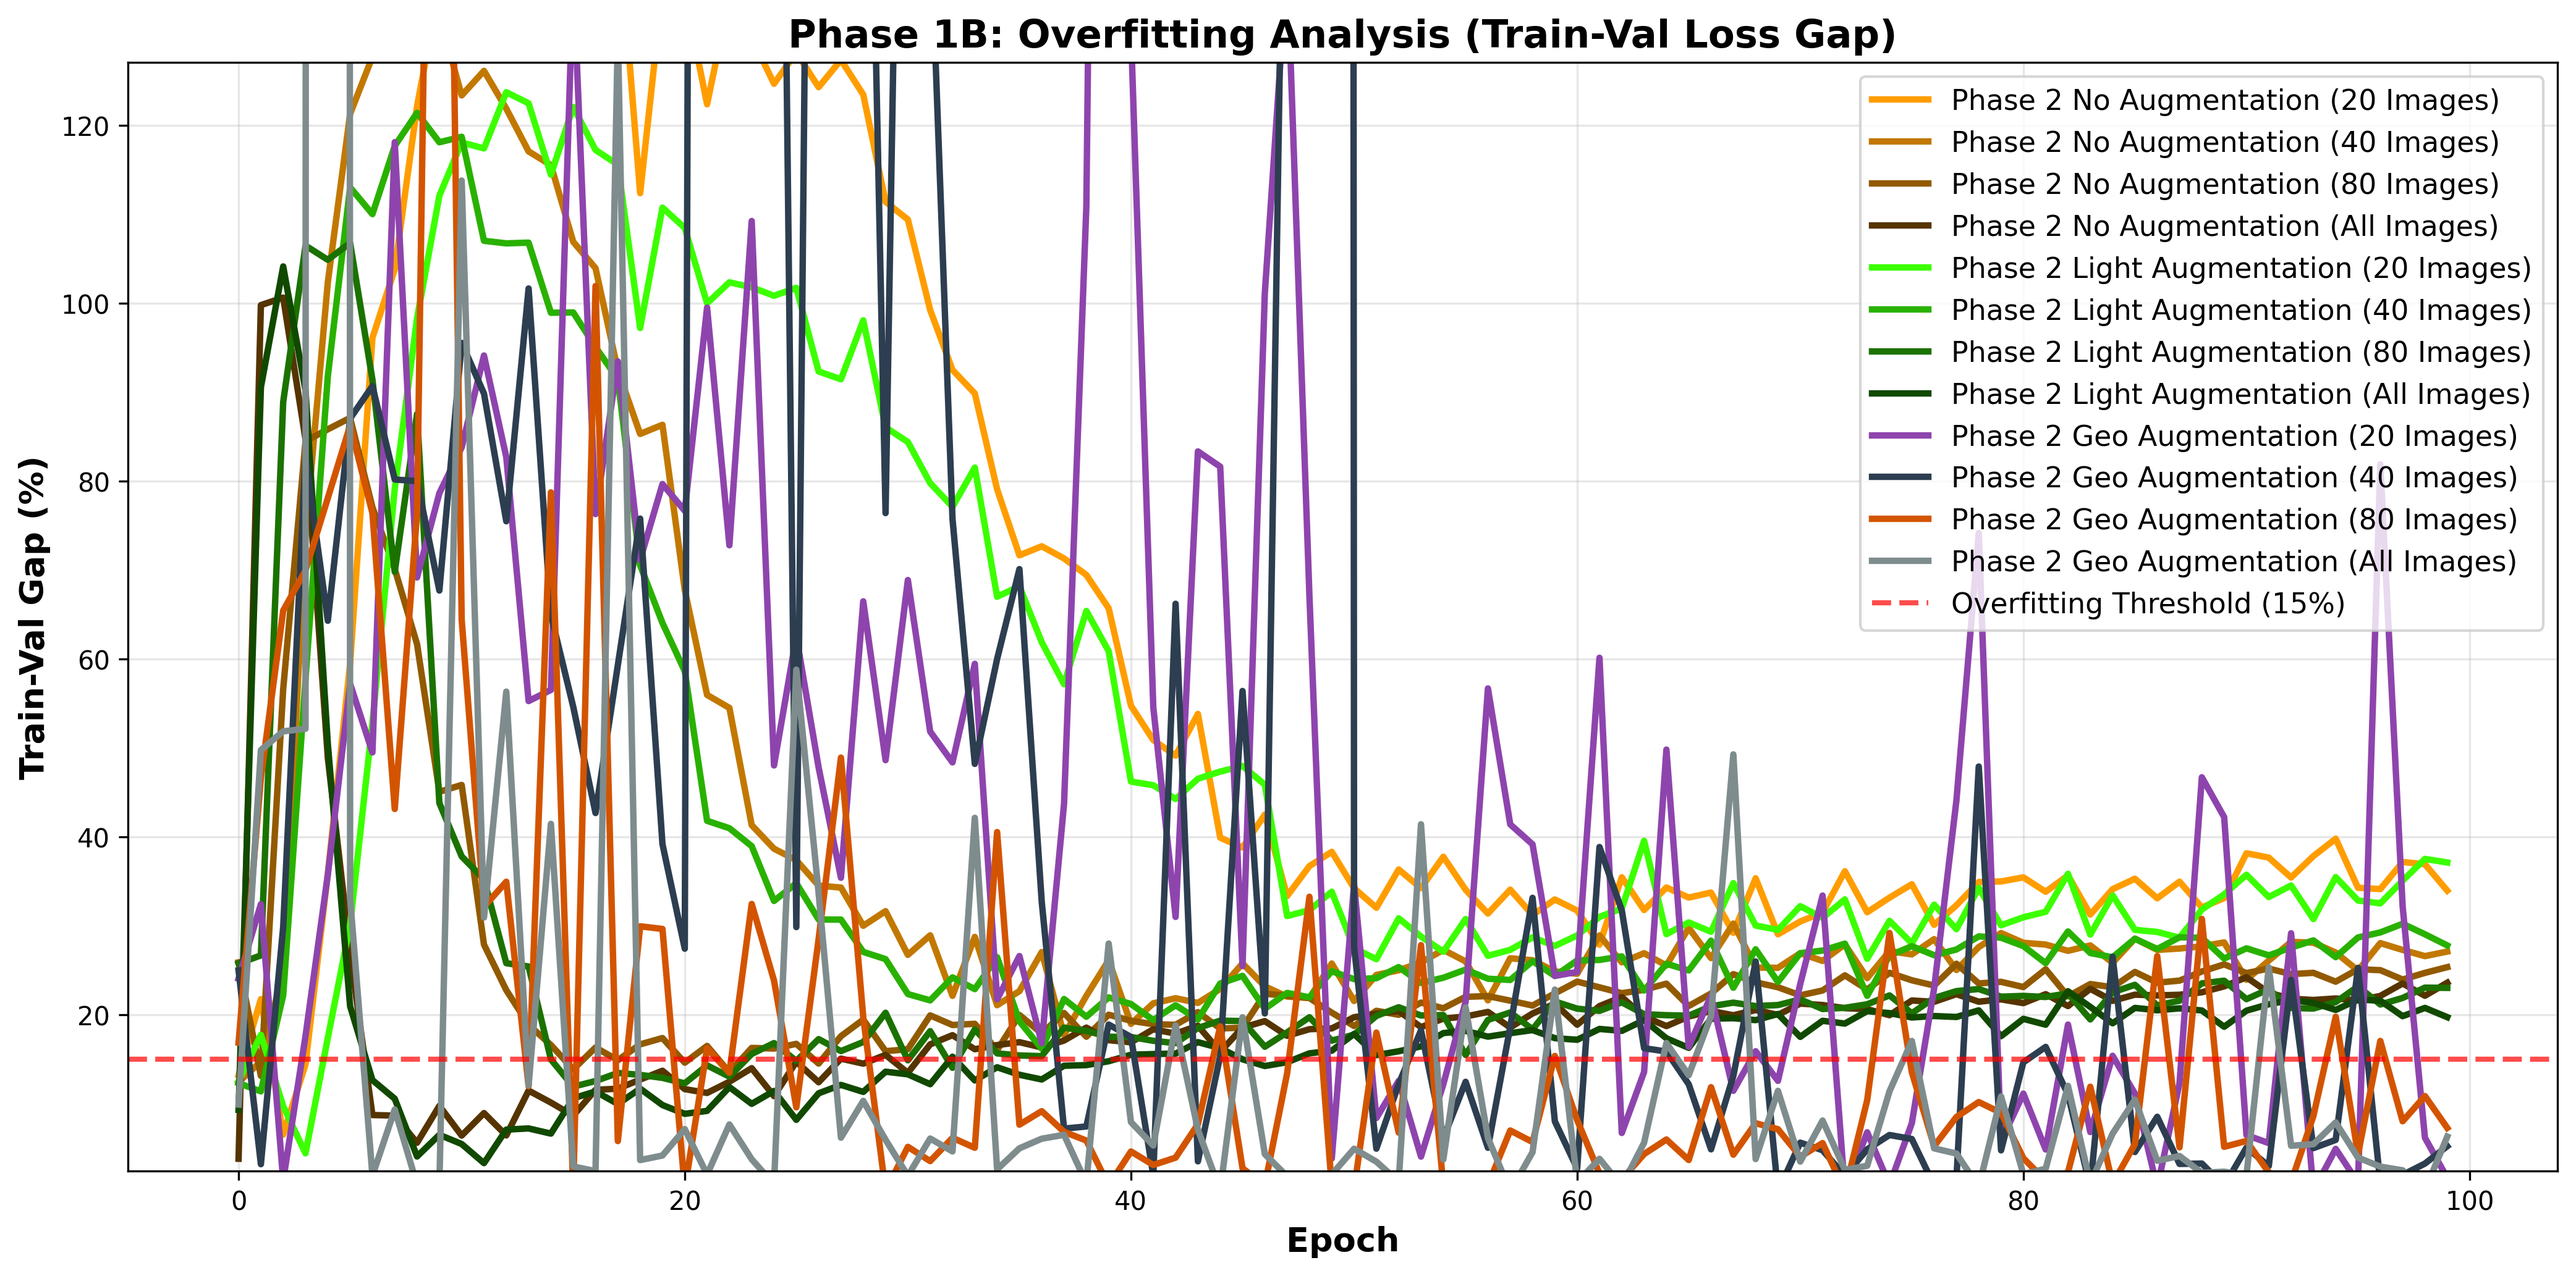
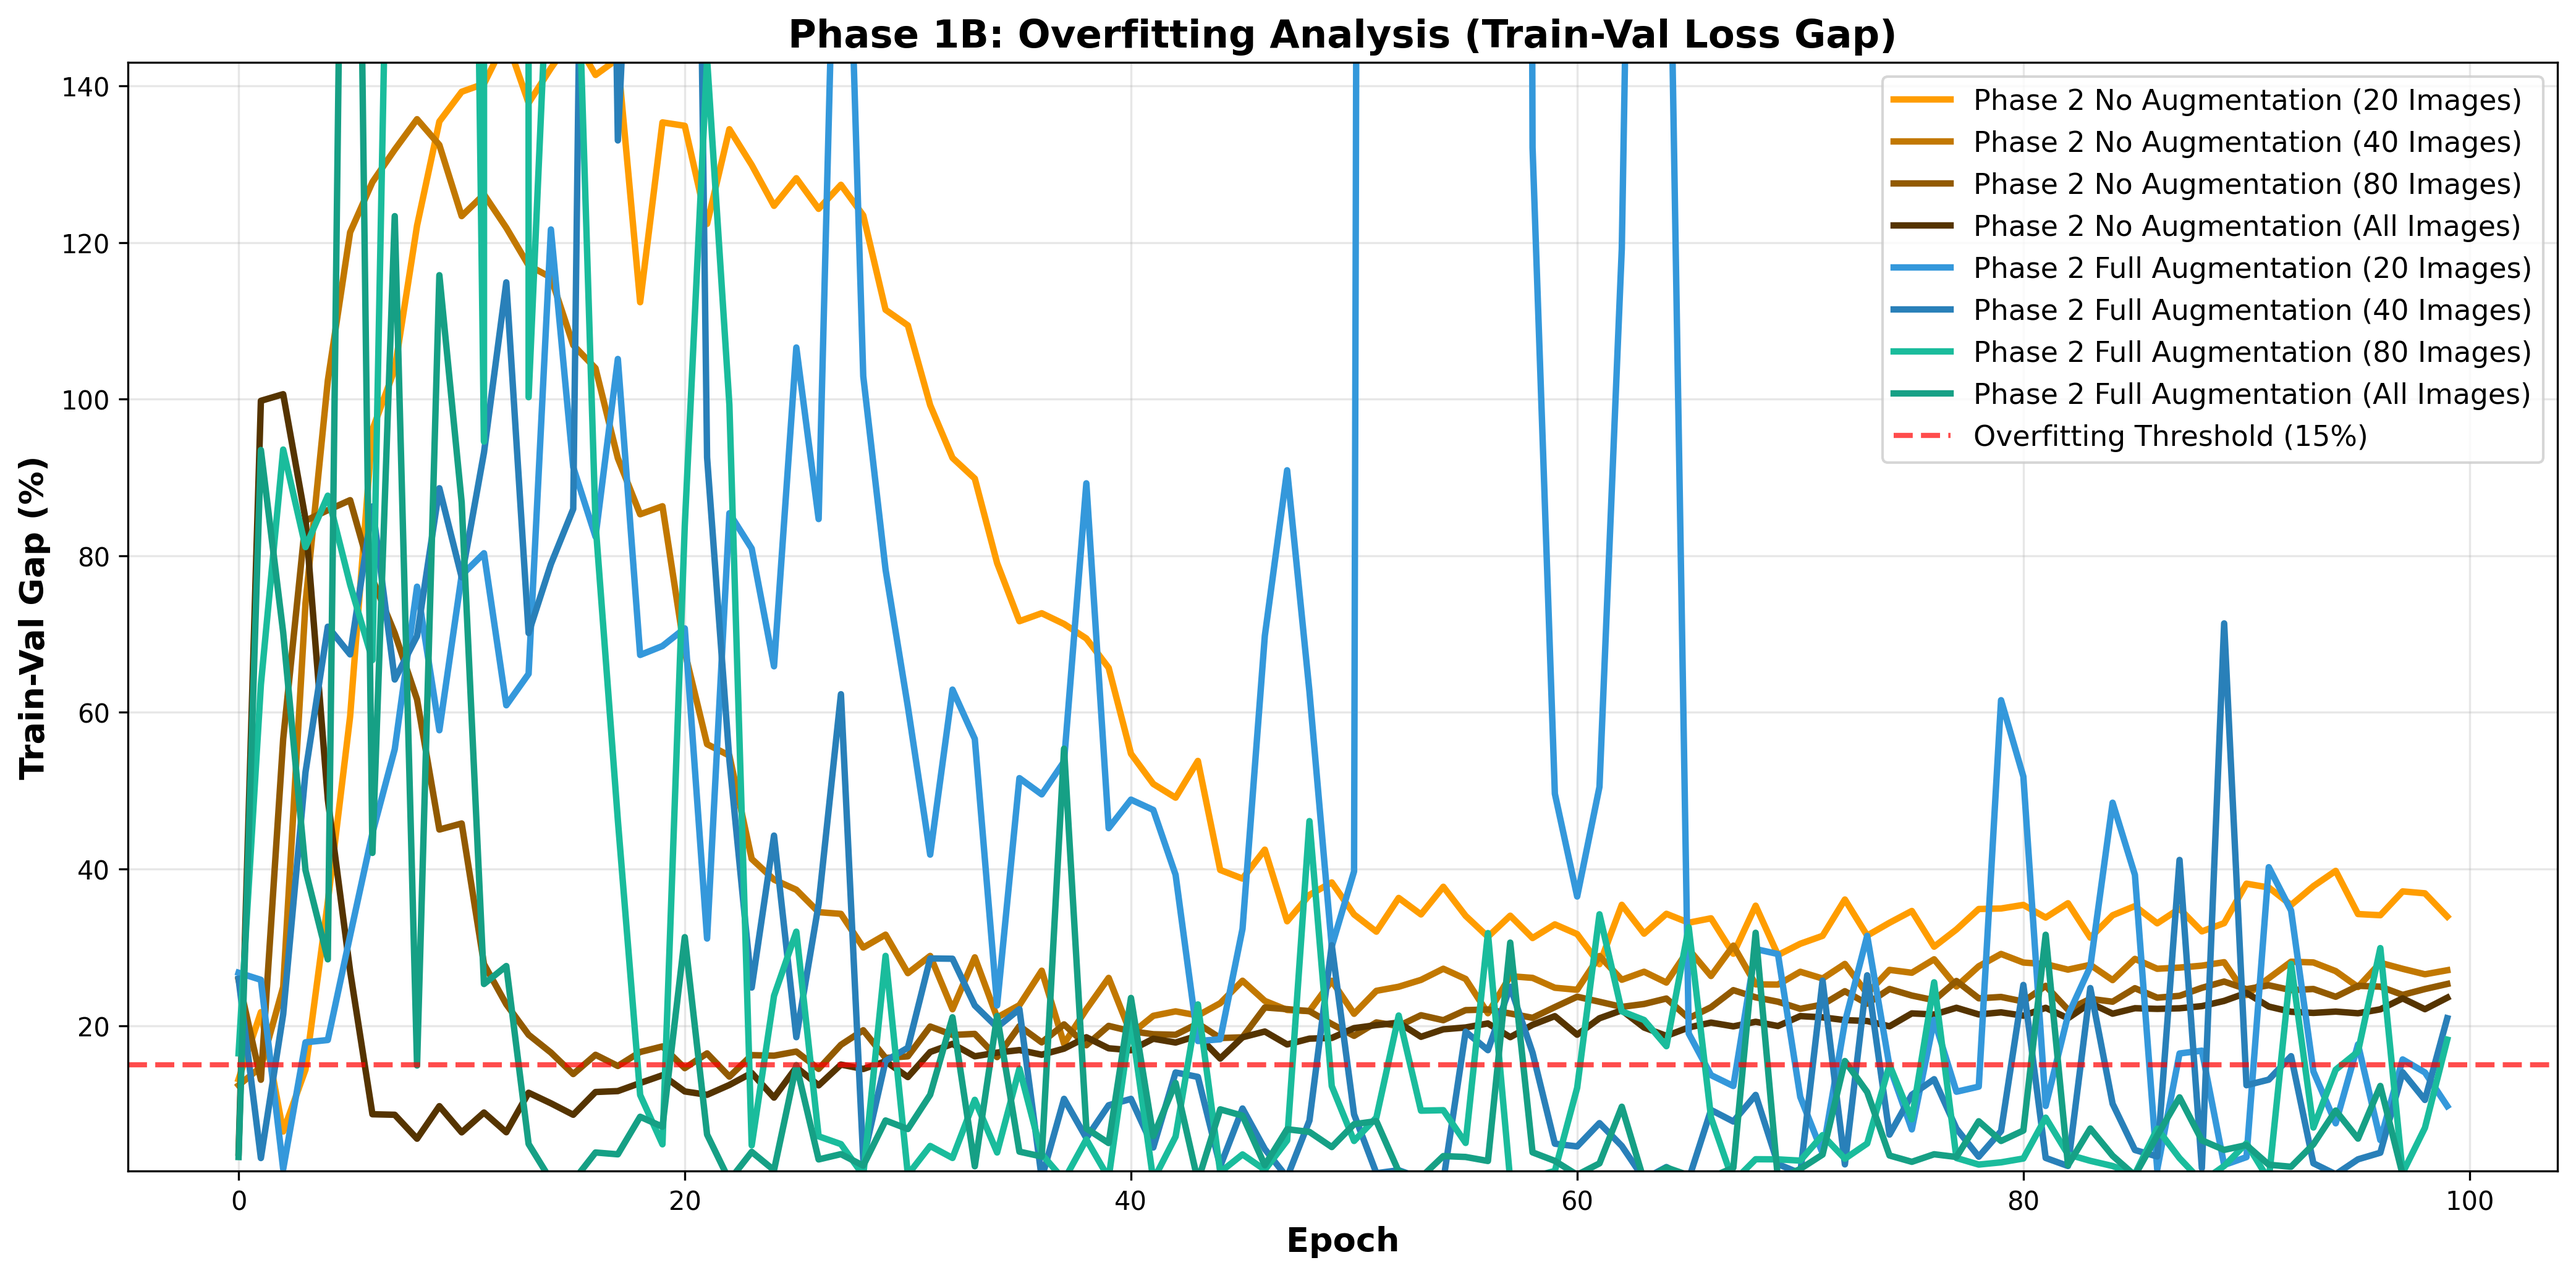
1 dec

Changed region(s): [[0.0312, 0.031, 0.9981, 0.9293], [0.0312, 0.6505, 0.0624, 0.6815]]

diff --git a/analysis/phasea_analysis.py b/analysis/phasea_analysis.py
@@ -53,14 +53,18 @@ PHASE1B_EXPERIMENTS = [
     "phase2_no_augmentation_40_images",
     "phase2_no_augmentation_80_images",
     "phase2_no_augmentation_all_images",
-    "phase2_light_augmentation_20_images",
-    "phase2_light_augmentation_40_images",
-    "phase2_light_augmentation_80_images",
-    "phase2_light_augmentation_all_images",
-    "phase2_geo_augmentation_20_images",
-    "phase2_geo_augmentation_40_images",
-    "phase2_geo_augmentation_80_images",
-    "phase2_geo_augmentation_all_images",
+    #"phase2_light_augmentation_20_images",
+    #"phase2_light_augmentation_40_images",
+    #"phase2_light_augmentation_80_images",
+    #"phase2_light_augmentation_all_images",
+    #"phase2_geo_augmentation_20_images",
+    #"phase2_geo_augmentation_40_images",
+    #"phase2_geo_augmentation_80_images",
+    #"phase2_geo_augmentation_all_images",
+    "phase2_full_augmentation_20_images",
+    "phase2_full_augmentation_40_images",
+    "phase2_full_augmentation_80_images",
+    "phase2_full_augmentation_all_images",
 ]
 
 EXPERIMENT_1B_LABELS = {
@@ -71,14 +75,18 @@ EXPERIMENT_1B_LABELS = {
     "phase2_no_augmentation_40_images": "Phase 2 No Augmentation (40 Images)",
     "phase2_no_augmentation_80_images": "Phase 2 No Augmentation (80 Images)",
     "phase2_no_augmentation_all_images": "Phase 2 No Augmentation (All Images)",
-    "phase2_light_augmentation_20_images": "Phase 2 Light Augmentation (20 Images)",
-    "phase2_light_augmentation_40_images": "Phase 2 Light Augmentation (40 Images)",
-    "phase2_light_augmentation_80_images": "Phase 2 Light Augmentation (80 Images)",
-    "phase2_light_augmentation_all_images": "Phase 2 Light Augmentation (All Images)",
-    "phase2_geo_augmentation_20_images": "Phase 2 Geo Augmentation (20 Images)",
-    "phase2_geo_augmentation_40_images": "Phase 2 Geo Augmentation (40 Images)",
-    "phase2_geo_augmentation_80_images": "Phase 2 Geo Augmentation (80 Images)",
-    "phase2_geo_augmentation_all_images": "Phase 2 Geo Augmentation (All Images)",
+    #"phase2_light_augmentation_20_images": "Phase 2 Light Augmentation (20 Images)",
+    #"phase2_light_augmentation_40_images": "Phase 2 Light Augmentation (40 Images)",
+    #"phase2_light_augmentation_80_images": "Phase 2 Light Augmentation (80 Images)",
+    #"phase2_light_augmentation_all_images": "Phase 2 Light Augmentation (All Images)",
+    #"phase2_geo_augmentation_20_images": "Phase 2 Geo Augmentation (20 Images)",
+    #"phase2_geo_augmentation_40_images": "Phase 2 Geo Augmentation (40 Images)",
+    #"phase2_geo_augmentation_80_images": "Phase 2 Geo Augmentation (80 Images)",
+    #"phase2_geo_augmentation_all_images": "Phase 2 Geo Augmentation (All Images)",
+    "phase2_full_augmentation_20_images": "Phase 2 Full Augmentation (20 Images)",
+    "phase2_full_augmentation_40_images": "Phase 2 Full Augmentation (40 Images)",
+    "phase2_full_augmentation_80_images": "Phase 2 Full Augmentation (80 Images)",
+    "phase2_full_augmentation_all_images": "Phase 2 Full Augmentation (All Images)",
 }
 
 COLORS_1B = {
@@ -89,14 +97,18 @@ COLORS_1B = {
     "phase2_no_augmentation_40_images": "#c27800ff",
     "phase2_no_augmentation_80_images": "#925a00ff",
     "phase2_no_augmentation_all_images": "#553400ff",
-    "phase2_light_augmentation_20_images": "#3cff00",
-    "phase2_light_augmentation_40_images": "#29b100",
-    "phase2_light_augmentation_80_images": "#1b7200",
-    "phase2_light_augmentation_all_images": "#114900",
-    "phase2_geo_augmentation_20_images": "#8e44ad",
-    "phase2_geo_augmentation_40_images": "#2c3e50",
-    "phase2_geo_augmentation_80_images": "#d35400",
-    "phase2_geo_augmentation_all_images": "#7f8c8d",
+    #"phase2_light_augmentation_20_images": "#3cff00",
+    #"phase2_light_augmentation_40_images": "#29b100",
+    #"phase2_light_augmentation_80_images": "#1b7200",
+    #"phase2_light_augmentation_all_images": "#114900",
+    #"phase2_geo_augmentation_20_images": "#8e44ad",
+    #"phase2_geo_augmentation_40_images": "#2c3e50",
+    #"phase2_geo_augmentation_80_images": "#d35400",
+    #"phase2_geo_augmentation_all_images": "#7f8c8d",
+    "phase2_full_augmentation_20_images": "#3498db",
+    "phase2_full_augmentation_40_images": "#2980b9",
+    "phase2_full_augmentation_80_images": "#1abc9c",
+    "phase2_full_augmentation_all_images": "#16a085",
 }
 
 PHASE_NAME = "1B"
